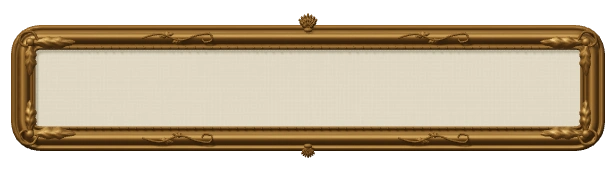
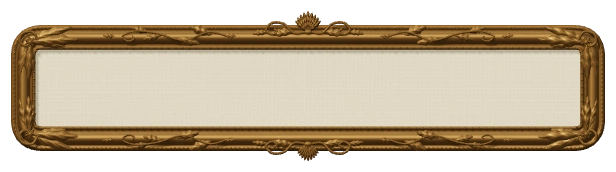
Restore sculpted foliage and fine ornament to the brass frame

diff --git a/src/control-frame.js b/src/control-frame.js
@@ -101,44 +101,87 @@ export function createFrameMetalwork() {
     const curve = new THREE.CatmullRomCurve3(points.map(p => new THREE.Vector3(...p)));
     add(new THREE.TubeGeometry(curve, 36, radius, 10, false));
   }
+  // Reflect the ornament's placement, not its mesh: the relief keeps outward
+  // facing normals and catches the same light on all four sides of the frame.
+  function leaf(length, width, height, x, y, z, angle, sx = 1, sy = 1) {
+    add(leafGeometry(length, width, height), sx * x, sy * y, z,
+      Math.atan2(sy * Math.sin(angle), sx * Math.cos(angle)));
+  }
+  function scroll(points, sx, sy, radius = .55) {
+    stem(points.map(([x, y, z]) => [sx * x, sy * y, z]), radius);
+  }
   for (const sx of [-1, 1]) for (const sy of [-1, 1]) {
     const x = sx * 139, y = sy * 23;
-    add(leafGeometry(23, 3.5, 1.8), x, y, 2.7, sx === 1 ? Math.PI : 0);
-    add(leafGeometry(17, 3.2, 1.7), x, y, 2.7, sy === 1 ? -Math.PI / 2 : Math.PI / 2);
-    // A rounded volute joins the two leaves, rooted in the molding.
+    // Layered acanthus fans follow the corner, with a low outer leaf behind
+    // the taller central fold. Their roots sink into the continuous molding.
+    leaf(22, 2.5, 1.35, 139, 23.7, 2.45, Math.PI - .32, sx, sy);
+    leaf(16, 2.0, 1.15, 137, 23.5, 2.7, Math.PI + .17, sx, sy);
+    leaf(25, 3.0, 1.9, 139, 23, 2.85, Math.PI - .06, sx, sy);
+    leaf(18, 2.2, 1.35, 140, 23, 2.45, -Math.PI / 2 + .24, sx, sy);
+    leaf(13, 1.8, 1.1, 139, 21, 2.65, -Math.PI / 2 - .13, sx, sy);
+    leaf(19, 2.5, 1.8, 139, 23, 2.85, -Math.PI / 2 + .04, sx, sy);
+    // A rounded volute joins the two fans, rooted in the molding.
     stem([[x - sx * 4, y + sy * 1, 3.2], [x - sx * 1, y + sy * 5, 3.7],
       [x + sx * 4, y + sy * 4, 3.7], [x + sx * 5, y, 3.6],
       [x + sx * 2, y - sy * 2, 3.4], [x, y, 3.0]], .7);
-    add(new THREE.SphereGeometry(1, 16, 12), x, y, 3.2, 0, 2.1, 2.1, 1.2);
+    for (let petal = 0; petal < 7; petal++) {
+      add(leafGeometry(2.8, .78, .7), x, y, 3.35, petal * Math.PI * 2 / 7);
+    }
+    add(new THREE.SphereGeometry(1, 16, 12), x, y, 3.8, 0, 1.05, 1.05, .7);
   }
-  // Spacious foliate scrolls leave the broad metal molding legible.
-  for (const side of [-1, 1]) for (const sy of [-1, 1]) {
-    const x = side * 64, y = sy * 25;
-    stem([[x - 19, y, 3.0], [x - 10, y + sy * 2, 3.4], [x, y - sy * 1.1, 3.4],
-      [x + 9, y + sy * 1.5, 3.5], [x + 15, y + sy * 2, 3.6], [x + 16, y - sy * 1, 3.4],
-      [x + 12, y - sy * 2, 3.3], [x + 11, y, 3.0]], .5);
-    add(leafGeometry(8, 1.7, .9), x - 11, y + sy * .4, 3.0, sy * .22);
-    add(leafGeometry(6, 1.5, .8), x + 2, y - sy * .7, 3.0, Math.PI + sy * .25);
+  // Symmetrical foliate sprays have space between their leaves so the broad
+  // ovolo's uninterrupted highlights still describe the underlying casting.
+  for (const sx of [-1, 1]) for (const sy of [-1, 1]) {
+    scroll([[38, 25, 2.9], [49, 28, 3.6], [62, 23.8, 3.7], [76, 27.4, 3.6],
+      [87, 28.3, 3.5], [93, 25.7, 3.7], [90, 23.3, 3.6], [87, 24.5, 3.5],
+      [88, 26, 3.3]], sx, sy, .5);
+    leaf(12, 2.3, 1.25, 48, 26.5, 3.0, .37, sx, sy);
+    leaf(12, 2.1, 1.2, 66, 25, 3.1, Math.PI + .23, sx, sy);
+    leaf(10, 2.0, 1.2, 73, 26.5, 3.0, -.23, sx, sy);
+    leaf(9, 1.7, 1.05, 80, 28, 2.9, .25, sx, sy);
+    leaf(8, 1.4, .85, 43, 26.4, 2.9, Math.PI + .1, sx, sy);
+    leaf(7, 1.5, .9, 96, 25.5, 2.9, .12, sx, sy);
   }
-  // Shell crest: a fluted fan with a rounded, scalloped outer edge.
+  // A fluted shell and paired C-scrolls form a connected central crest.
   for (const sy of [-1, 1]) {
-    const scale = sy === 1 ? 1 : .73;
-    for (let rib = -3; rib <= 3; rib++) {
-      const angle = rib * .23, length = (8.5 - Math.abs(rib) * .4) * scale;
-      add(leafGeometry(length, 1.2 * scale, 1.1 * scale), 0, sy * 29, 2.4,
+    const scale = sy === 1 ? 1 : .83;
+    for (const sx of [-1, 1]) {
+      scroll([[1, 28, 2.9], [7, 27.5, 3.5], [12, 32, 3.7], [18, 32.5, 3.7],
+        [21, 29, 3.6], [18, 26.8, 3.5], [15.5, 28.3, 3.5], [17, 29.5, 3.3]], sx, sy, .65);
+      leaf(12, 2.3, 1.25, 7, 28.5, 2.7, -.18, sx, sy);
+      leaf(8, 1.6, 1.0, 20, 28, 2.7, -.12, sx, sy);
+    }
+    for (let rib = -4; rib <= 4; rib++) {
+      const angle = rib * .21, length = (10.5 - Math.abs(rib) * .5) * scale;
+      add(leafGeometry(length, 1.35 * scale, 1.25 * scale), 0, sy * 28, 2.6,
         sy * Math.PI / 2 + angle, 1, 1, 1);
     }
-    add(new THREE.SphereGeometry(1, 16, 12), 0, sy * 29, 3.1, 0, 2.1, 1.2, 1.1);
+    add(new THREE.SphereGeometry(1, 16, 12), 0, sy * 28, 3.25, 0, 2.0, 1.25, 1.0);
   }
   const carving = new THREE.Mesh(mergeGeometries(relief), brass); carving.name = 'cast-acanthus-and-scrollwork';
   relief.forEach(g => g.dispose()); group.add(carving);
-  const beads = new THREE.InstancedMesh(new THREE.SphereGeometry(.64, 10, 8), polished, 124);
+  const beadOutline = roundedRectangle(274, 40.2, 5.5);
+  const beadCount = Math.round(beadOutline.getLength() / 3.5);
+  const beads = new THREE.InstancedMesh(new THREE.SphereGeometry(.6, 10, 8), polished, beadCount);
   beads.name = 'inner-bead-molding';
-  const matrix = new THREE.Matrix4(); let bead = 0;
-  for (const sy of [-1, 1]) for (let i = 0; i < 62; i++) {
-    matrix.makeTranslation(-128.1 + i * 4.2, sy * 20.1, 1.7); beads.setMatrixAt(bead++, matrix);
+  const matrix = new THREE.Matrix4();
+  for (let i = 0; i < beadCount; i++) {
+    const point = beadOutline.getPointAt(i / beadCount);
+    matrix.makeTranslation(point.x, point.y, 1.7); beads.setMatrixAt(i, matrix);
   }
   group.add(beads);
+  // Fine diagonal chasing sits in the outer lip, below the foliate relief.
+  // Instancing keeps this continuous perimeter detail to a single draw call.
+  const chasedOutline = roundedRectangle(294, 60, 14), chaseCount = Math.round(chasedOutline.getLength() / 2.15);
+  const chasing = new THREE.InstancedMesh(new THREE.SphereGeometry(1, 10, 8), brass, chaseCount);
+  chasing.name = 'chased-outer-fillet';
+  const rotation = new THREE.Quaternion(), axis = new THREE.Vector3(0, 0, 1), scale = new THREE.Vector3(.85, .28, .26);
+  for (let i = 0; i < chaseCount; i++) {
+    const t = i / chaseCount, point = chasedOutline.getPointAt(t), tangent = chasedOutline.getTangentAt(t);
+    rotation.setFromAxisAngle(axis, Math.atan2(tangent.y, tangent.x) - .48);
+    matrix.compose(new THREE.Vector3(point.x, point.y, 1.65), rotation, scale); chasing.setMatrixAt(i, matrix);
+  }
+  group.add(chasing);
   group.traverse(object => { if (object.isMesh) object.castShadow = object.receiveShadow = true; });
   return group;
 }

diff --git a/src/style.css b/src/style.css
@@ -15,8 +15,8 @@ button:focus-visible { outline: 2px solid #947039; outline-offset: 5px; border-r
 .drawer-hotspot:focus-visible { outline: 2px solid #947039; outline-offset: 4px; border-radius: 50%; background: #fff8e822; }
 .room-vignette { position: absolute; inset: 0; pointer-events: none; background: radial-gradient(ellipse at 47% 42%, transparent 40%, #302d2312 100%); z-index: 1; }
 .desk-controls { position: absolute; z-index: 3; right: max(20px, env(safe-area-inset-right)); bottom: max(14px, env(safe-area-inset-bottom)); display: flex; align-items: center; justify-content: space-between; gap: 2px; width: min(308px, calc(100% - 28px)); height: 86px; padding: 22px 22px 20px; color: #694820; isolation: isolate; filter: drop-shadow(0 3px 2px #3f291f36) drop-shadow(0 7px 9px #3f291f18); }
-.desk-controls::before { content: ''; position: absolute; z-index: -1; inset: 0; background: url('/materials/control-frame-day.webp?v=cast-1') center / 100% 100% no-repeat; pointer-events: none; }
-.is-evening .desk-controls::before { background-image: url('/materials/control-frame-evening.webp?v=cast-1'); }
+.desk-controls::before { content: ''; position: absolute; z-index: -1; inset: 0; background: url('/materials/control-frame-day.webp?v=cast-2') center / 100% 100% no-repeat; pointer-events: none; }
+.is-evening .desk-controls::before { background-image: url('/materials/control-frame-evening.webp?v=cast-2'); }
 .desk-controls.has-metal-frame::before { opacity: 0; }
 #control-frame { position: absolute; z-index: -1; inset: 0; width: 100%; height: 100%; pointer-events: none; opacity: 0; }
 .has-metal-frame #control-frame { opacity: 1; }
